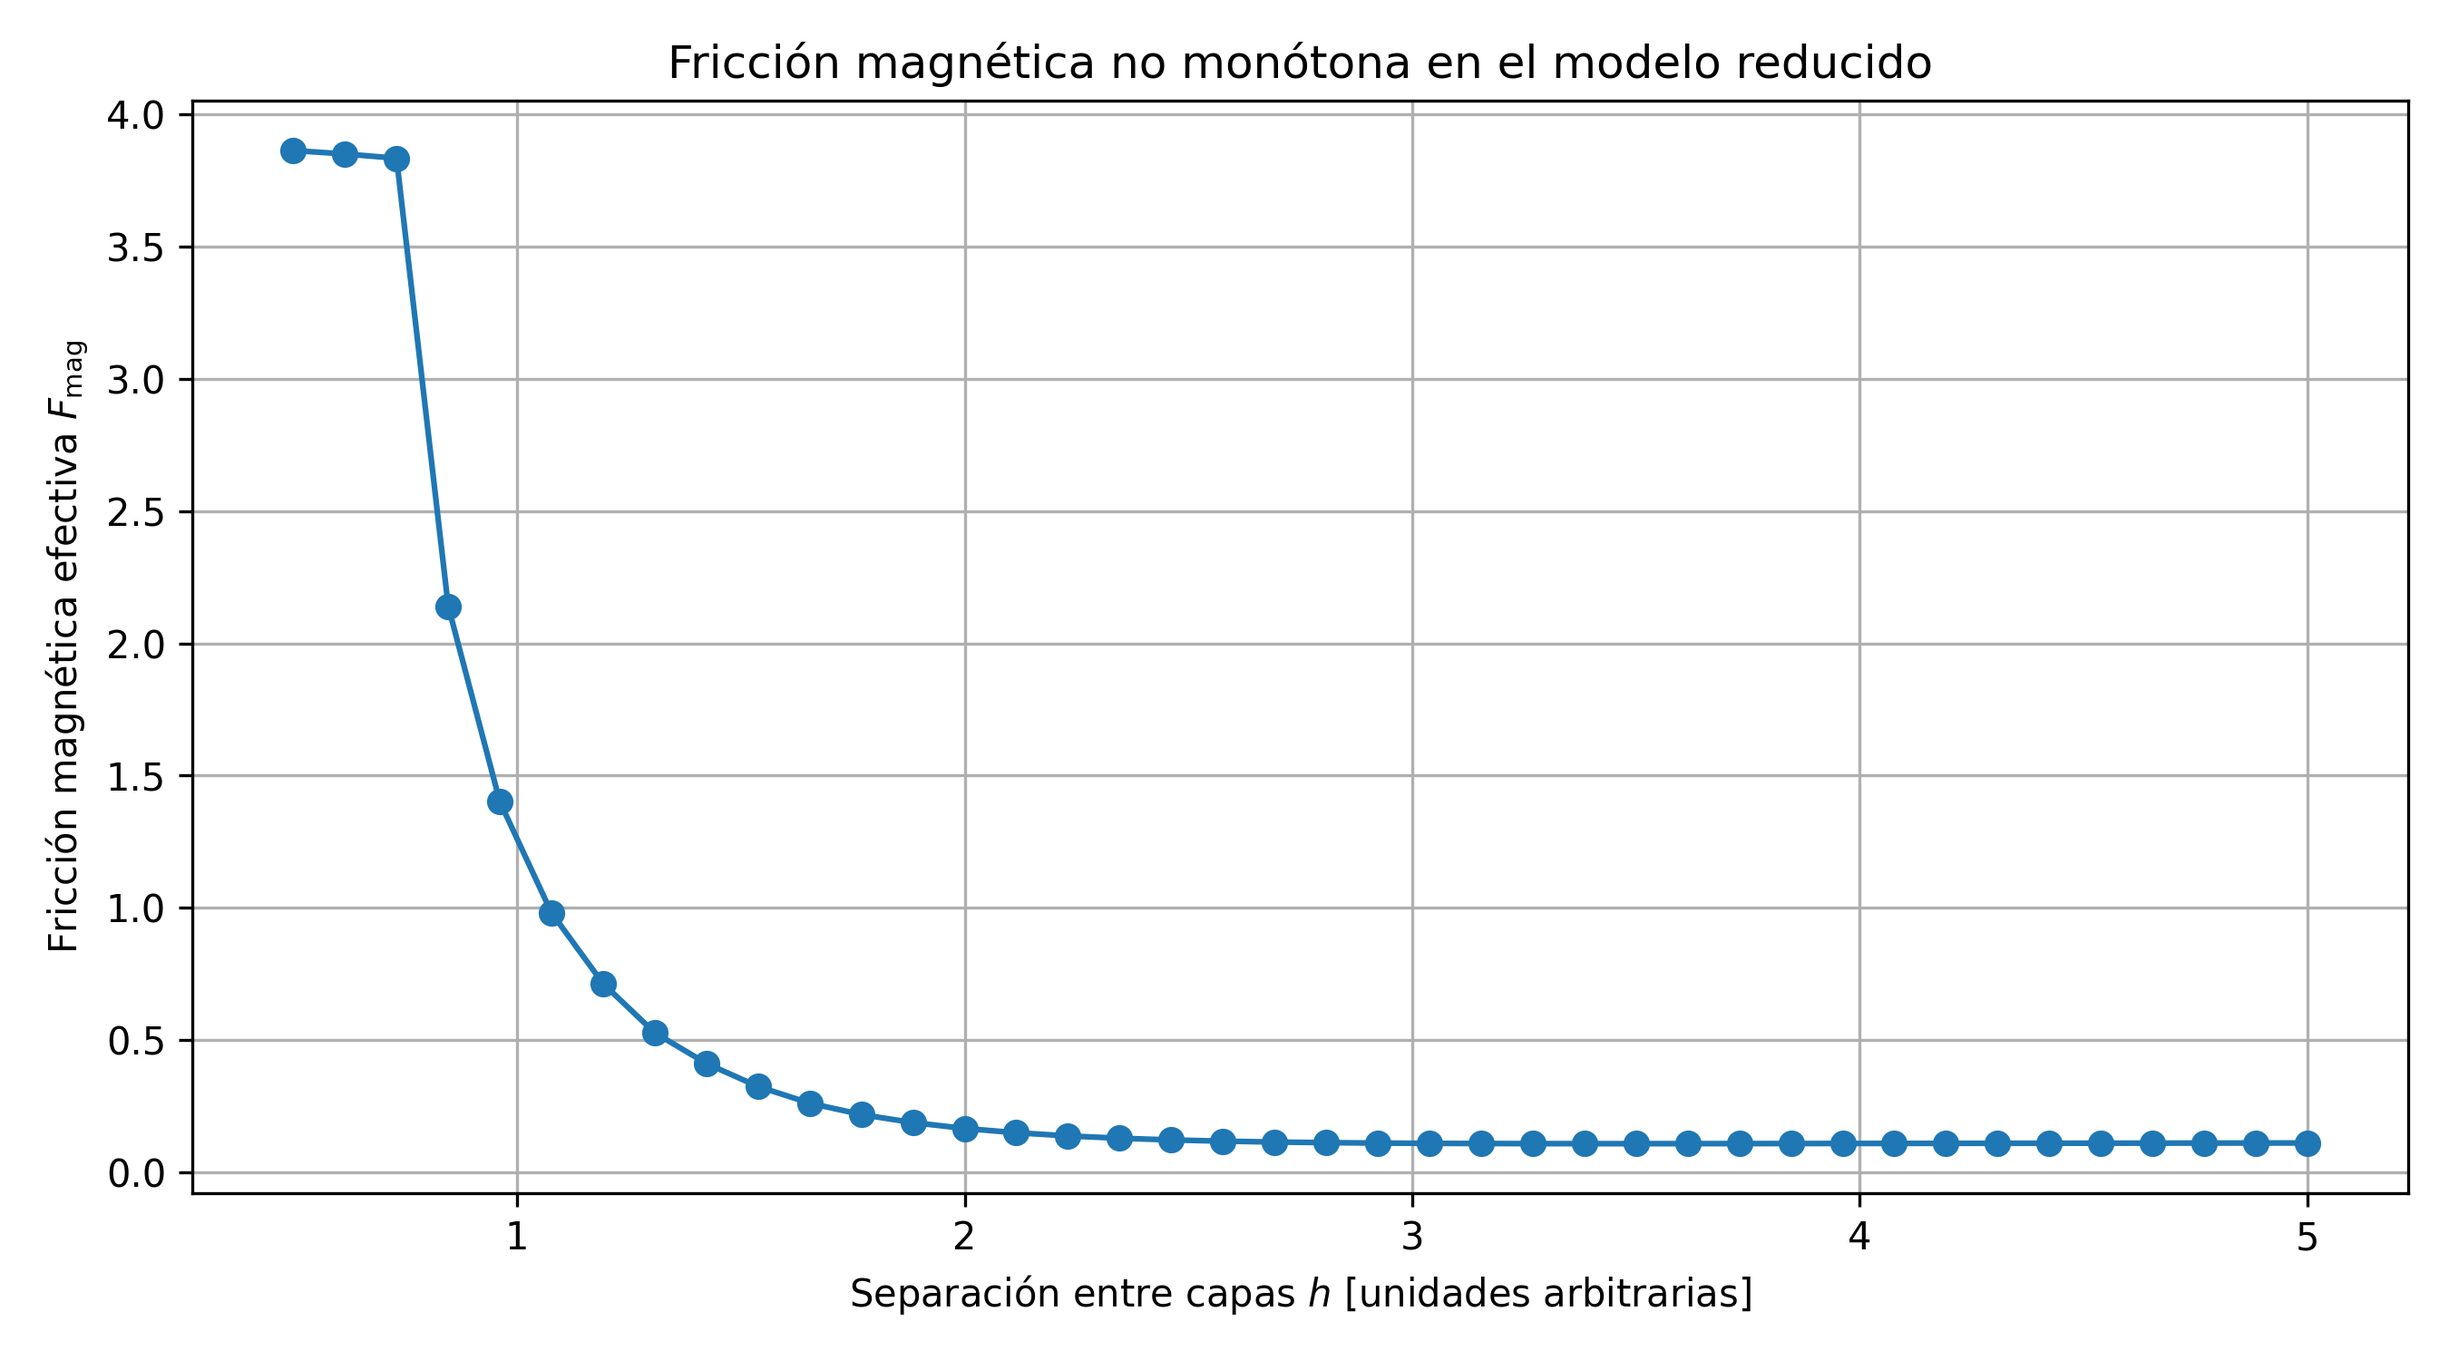
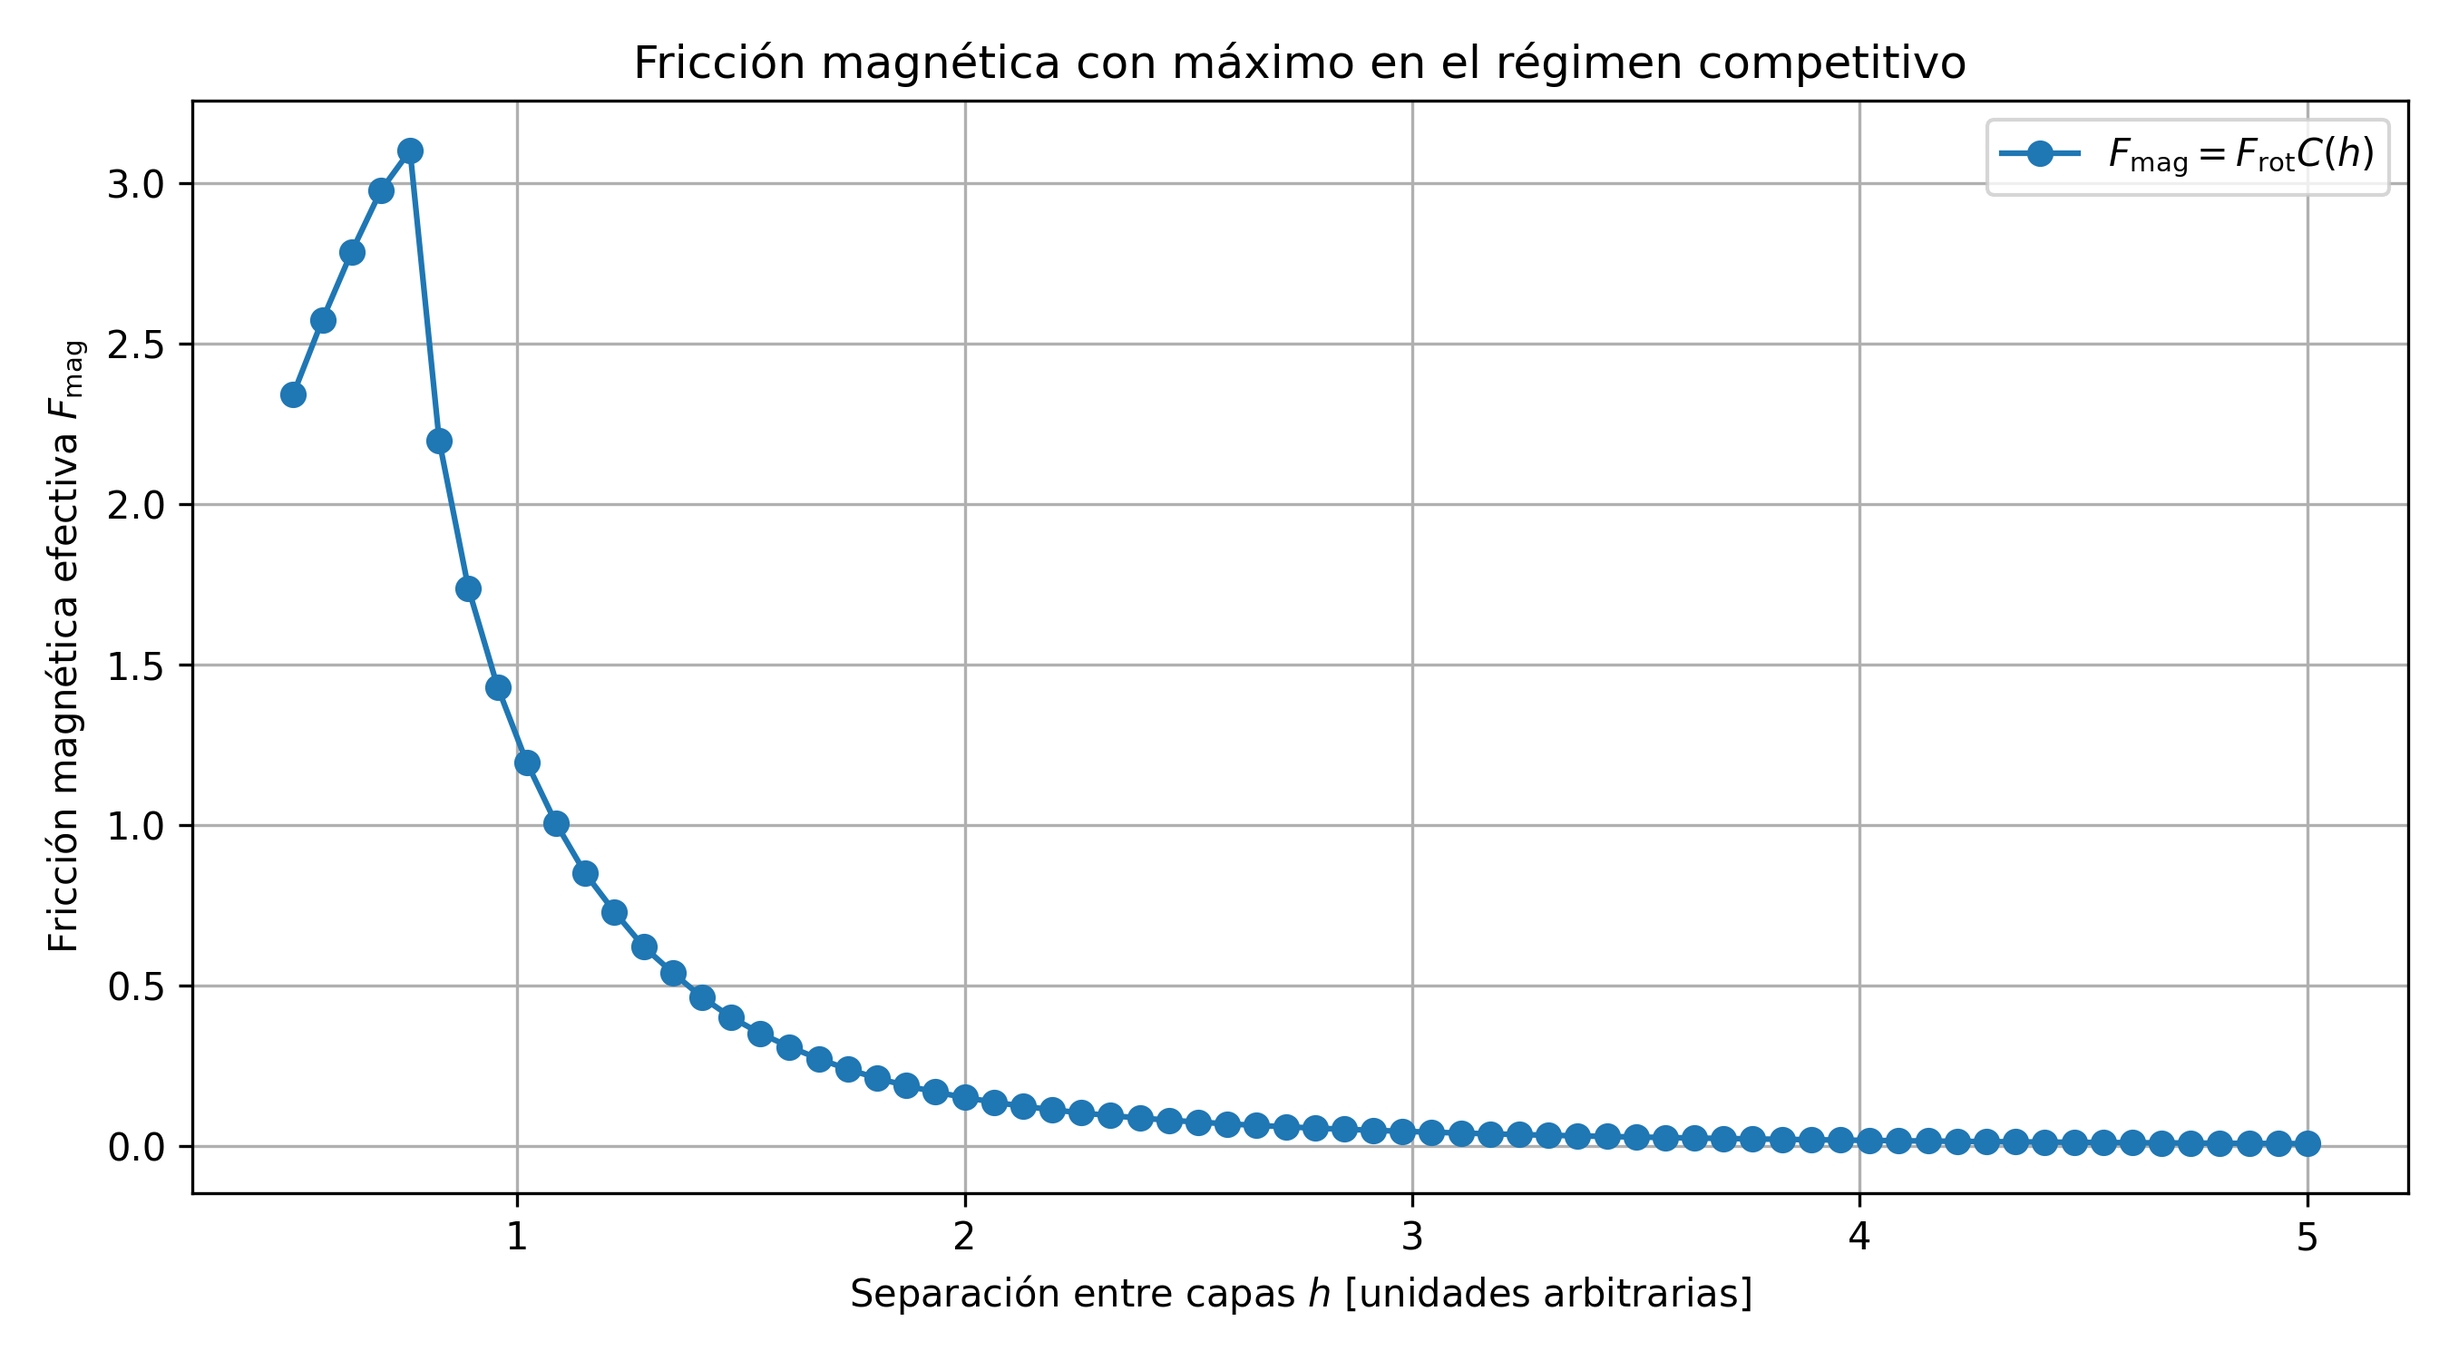
Correccion

diff --git a/modelo_friccion_magnetica.py b/modelo_friccion_magnetica.py
@@ -6,71 +6,120 @@ import matplotlib.pyplot as plt
 # Modelo reducido de fricción magnética sin contacto
 # Dos rotores / dos subredes: theta_A y theta_B
 # ============================================================
+#
+# Objetivo del código:
+# Construir un modelo mínimo que reproduzca cualitativamente la idea central
+# del artículo: la fricción magnética puede ser máxima cuando compiten
+# la interacción con el sustrato y la interacción interna entre rotores.
+#
+# Importante:
+# Este código NO pretende reproducir cuantitativamente el experimento completo
+# de 7x7 rotores. Es un modelo reducido útil para el paper del curso.
+# ============================================================
 
-# Parámetros generales
+
+# ============================================================
+# Parámetros generales de la simulación
+# ============================================================
+
 gamma = 1.0          # coeficiente de fricción rotacional
-v = 0.05             # velocidad de deslizamiento
+v = 0.05             # velocidad de deslizamiento en periodos de red / unidad de tiempo
 dt = 0.01            # paso temporal
-n_periods = 6        # número de periodos de red simulados
+n_periods = 8        # número de periodos de red simulados
 steps_per_period = int(1 / (v * dt))
 n_steps = n_periods * steps_per_period
 
-# Desplazamiento total
+# Tiempo y desplazamiento. La variable x está medida en periodos de red.
 t = np.arange(n_steps) * dt
-x = v * t            # x está medido en unidades del periodo de red
+x = v * t
 
-# Barrido de separaciones
-h_values = np.linspace(0.5, 5.0, 40)
+# Valores de separación h que se barren para obtener F_mag(h)
+h_values = np.linspace(0.5, 5.0, 70)
 
+# Pequeño número para evitar divisiones por cero
+eps = 1e-12
+
+
+# ============================================================
+# Funciones auxiliares
+# ============================================================
 
 def wrap_angle(theta):
     """
     Lleva un ángulo al intervalo [-pi, pi].
-    Esto ayuda a evitar saltos artificiales en las gráficas.
+    Esto ayuda a visualizar las orientaciones sin saltos de 2pi.
     """
     return (theta + np.pi) % (2 * np.pi) - np.pi
 
 
-def phi_substrate(x):
+def phi_substrate(x_value):
     """
     Dirección efectiva del campo magnético del sustrato.
-    Se toma periódica en el desplazamiento.
+    El campo se toma periódico con el desplazamiento.
     """
-    return 2 * np.pi * x
+    return 2 * np.pi * x_value
 
 
 def B_of_h(h):
     """
     Intensidad de la interacción con el sustrato.
-    Disminuye con la separación h.
+    Disminuye al aumentar la separación entre capas.
     """
     return np.exp(-h)
 
 
 def J_of_h(h):
     """
-    Intensidad de la interacción interna entre rotores.
-
-    En este modelo simple, la interacción entre rotores se toma
-    relativamente más importante cuando aumenta h.
+    Intensidad efectiva de la interacción interna entre rotores.
+    En este modelo reducido se hace crecer relativamente con h, para representar
+    que a grandes separaciones domina la interacción interna frente al sustrato.
     """
     return 0.35 * (1 - np.exp(-h))
 
 
-def simulate(h, theta_A0=0.2, theta_B0=-0.2):
+def competition_factor(B, J):
     """
-    Simula la dinámica de dos rotores magnéticos para una separación h.
+    Factor fenomenológico de competencia entre interacciones.
+
+    C = 1 cuando B = J.
+    C tiende a 0 cuando una interacción domina completamente sobre la otra.
+
+    Este factor permite resaltar que la disipación magnética relevante aparece
+    principalmente cuando el sustrato y la interacción interna son comparables.
+    """
+    return 4 * B * J / ((B + J) ** 2 + eps)
+
+
+# ============================================================
+# Simulación dinámica
+# ============================================================
+
+def simulate(h, theta_A0=0.0, theta_B0=0.05):
+    """
+    Simula la dinámica sobreamortiguada de dos rotores magnéticos.
+
+    Variables dinámicas:
+    theta_A(t), theta_B(t)
 
     Energía efectiva:
 
-    U = J(h) cos(theta_A - theta_B)
-        - B(h)[cos(theta_A - phi) + cos(theta_B - phi)]
+    U(theta_A, theta_B, x, h) =
+        J(h) cos(theta_A - theta_B)
+        - B(h)[cos(theta_A - phi(x)) + cos(theta_B - phi(x))]
 
-    Nota:
-    - El término J cos(theta_A - theta_B) favorece configuración antiparalela
-      cuando J > 0, porque su mínimo ocurre cerca de theta_A - theta_B = pi.
-    - El término con B favorece alineación de ambos rotores con el campo
-      periódico del sustrato.
+    Interpretación:
+    - El término con B(h) favorece que ambos rotores sigan el campo periódico
+      del sustrato.
+    - El término con J(h) favorece una configuración antiparalela entre rotores.
+    - Cuando B y J son comparables, hay competencia entre ambas tendencias.
+
+    Ecuaciones de movimiento sobreamortiguadas:
+
+        gamma * theta_dot = - dU/dtheta
+
+    La potencia disipada por fricción rotacional se calcula como:
+
+        P_diss = gamma * (theta_A_dot^2 + theta_B_dot^2)
     """
 
     B = B_of_h(h)
@@ -78,44 +127,45 @@ def simulate(h, theta_A0=0.2, theta_B0=-0.2):
 
     theta_A = np.zeros(n_steps)
     theta_B = np.zeros(n_steps)
+    dissipation_rate = np.zeros(n_steps)
 
     theta_A[0] = theta_A0
     theta_B[0] = theta_B0
 
-    dissipation_rate = np.zeros(n_steps)
-
     for k in range(n_steps - 1):
         phi = phi_substrate(x[k])
 
-        # Derivadas de U respecto a los ángulos
+        # Derivadas parciales de U respecto a theta_A y theta_B
         dU_dtheta_A = -J * np.sin(theta_A[k] - theta_B[k]) + B * np.sin(theta_A[k] - phi)
         dU_dtheta_B =  J * np.sin(theta_A[k] - theta_B[k]) + B * np.sin(theta_B[k] - phi)
 
-        # Dinámica sobreamortiguada:
-        # gamma * theta_dot = - dU/dtheta
+        # Dinámica sobreamortiguada
         theta_A_dot = -dU_dtheta_A / gamma
         theta_B_dot = -dU_dtheta_B / gamma
 
         theta_A[k + 1] = theta_A[k] + theta_A_dot * dt
         theta_B[k + 1] = theta_B[k] + theta_B_dot * dt
 
-        # Potencia disipada por fricción rotacional
+        # Potencia disipada por fricción rotacional interna
         dissipation_rate[k] = gamma * (theta_A_dot**2 + theta_B_dot**2)
 
-    # Último valor aproximado
     dissipation_rate[-1] = dissipation_rate[-2]
 
     # Parámetro de orden:
-    # Sigma = 1  -> orden ferromagnético, rotores paralelos
-    # Sigma = -1 -> orden antiferromagnético, rotores antiparalelos
+    # Sigma = +1  -> rotores paralelos, orden tipo ferromagnético.
+    # Sigma = -1  -> rotores antiparalelos, orden tipo antiferromagnético.
     Sigma = np.cos(theta_A - theta_B)
 
-    # Energía disipada total
+    # Energía disipada total y fricción rotacional promedio
     E_diss = np.trapz(dissipation_rate, t)
-
-    # Fricción efectiva: energía disipada por distancia recorrida
     total_distance = x[-1] - x[0]
-    F_mag = E_diss / total_distance
+    F_rot = E_diss / total_distance
+
+    # Factor de competencia y fricción magnética efectiva corregida.
+    # Esta es la magnitud que se usa para representar el mecanismo cualitativo
+    # de fricción máxima en el régimen competitivo.
+    C = competition_factor(B, J)
+    F_mag = F_rot * C
 
     return {
         "h": h,
@@ -125,19 +175,25 @@ def simulate(h, theta_A0=0.2, theta_B0=-0.2):
         "Sigma": Sigma,
         "dissipation_rate": dissipation_rate,
         "E_diss": E_diss,
+        "F_rot": F_rot,
         "F_mag": F_mag,
         "B": B,
-        "J": J
+        "J": J,
+        "C": C,
     }
 
 
 # ============================================================
-# Simulaciones para tres regímenes
+# Simulaciones representativas de tres regímenes
 # ============================================================
 
-h_small = 0.7       # domina el sustrato
-h_middle = 2.0      # régimen competitivo
-h_large = 4.5       # domina interacción interna
+# Estos valores se escogieron para representar tres zonas:
+# 1. Sustrato dominante: B >> J
+# 2. Régimen competitivo: B aproximadamente comparable con J
+# 3. Interacción interna dominante: J >> B
+h_small = 0.7
+h_middle = 1.35
+h_large = 4.5
 
 result_small = simulate(h_small)
 result_middle = simulate(h_middle)
@@ -145,14 +201,12 @@ result_large = simulate(h_large)
 
 
 # ============================================================
-# Figura 1: Ángulos vs desplazamiento
+# Figura 1: Ángulos vs desplazamiento en el régimen competitivo
 # ============================================================
 
 plt.figure(figsize=(9, 5))
-
 plt.plot(result_middle["x"], wrap_angle(result_middle["theta_A"]), label=r"$\theta_A$")
 plt.plot(result_middle["x"], wrap_angle(result_middle["theta_B"]), label=r"$\theta_B$")
-
 plt.xlabel(r"Desplazamiento $x$ [periodos de red]")
 plt.ylabel(r"Ángulo del rotor [rad]")
 plt.title(r"Dinámica angular de dos rotores en el régimen competitivo")
@@ -168,14 +222,12 @@ plt.show()
 # ============================================================
 
 plt.figure(figsize=(9, 5))
-
-plt.plot(result_small["x"], result_small["Sigma"], label=f"h = {h_small:.1f}  sustrato dominante")
-plt.plot(result_middle["x"], result_middle["Sigma"], label=f"h = {h_middle:.1f}  régimen competitivo")
-plt.plot(result_large["x"], result_large["Sigma"], label=f"h = {h_large:.1f}  interacción interna dominante")
-
+plt.plot(result_small["x"], result_small["Sigma"], label=f"h = {h_small:.2f}  sustrato dominante")
+plt.plot(result_middle["x"], result_middle["Sigma"], label=f"h = {h_middle:.2f}  régimen competitivo")
+plt.plot(result_large["x"], result_large["Sigma"], label=f"h = {h_large:.2f}  interacción interna dominante")
 plt.xlabel(r"Desplazamiento $x$ [periodos de red]")
 plt.ylabel(r"Parámetro de orden $\Sigma = \cos(\theta_A-\theta_B)$")
-plt.title(r"Transición entre orden ferromagnético y antiferromagnético")
+plt.title(r"Orden magnético efectivo en tres regímenes")
 plt.legend()
 plt.grid(True)
 plt.tight_layout()
@@ -184,33 +236,43 @@ plt.show()
 
 
 # ============================================================
-# Figura 3: Fricción magnética efectiva vs separación h
+# Barrido en h para calcular F_mag(h)
 # ============================================================
 
-F_values = []
+F_rot_values = []
+F_mag_values = []
 Sigma_mean_values = []
 B_values = []
 J_values = []
+C_values = []
 
 for h in h_values:
     result = simulate(h)
-    F_values.append(result["F_mag"])
+    F_rot_values.append(result["F_rot"])
+    F_mag_values.append(result["F_mag"])
     Sigma_mean_values.append(np.mean(result["Sigma"]))
     B_values.append(result["B"])
     J_values.append(result["J"])
+    C_values.append(result["C"])
 
-F_values = np.array(F_values)
+F_rot_values = np.array(F_rot_values)
+F_mag_values = np.array(F_mag_values)
 Sigma_mean_values = np.array(Sigma_mean_values)
 B_values = np.array(B_values)
 J_values = np.array(J_values)
+C_values = np.array(C_values)
+
+
+# ============================================================
+# Figura 3: Fricción magnética efectiva vs separación h
+# ============================================================
 
 plt.figure(figsize=(9, 5))
-
-plt.plot(h_values, F_values, marker="o")
-
+plt.plot(h_values, F_mag_values, marker="o", label=r"$F_{\mathrm{mag}} = F_{\mathrm{rot}} C(h)$")
 plt.xlabel(r"Separación entre capas $h$ [unidades arbitrarias]")
 plt.ylabel(r"Fricción magnética efectiva $F_{\mathrm{mag}}$")
-plt.title(r"Fricción magnética no monótona en el modelo reducido")
+plt.title(r"Fricción magnética con máximo en el régimen competitivo")
+plt.legend()
 plt.grid(True)
 plt.tight_layout()
 plt.savefig("figura_3_friccion_vs_h.png", dpi=300)
@@ -218,16 +280,15 @@ plt.show()
 
 
 # ============================================================
-# Figura 4 opcional: Comparación entre interacciones B(h) y J(h)
+# Figura 4: Competencia entre interacciones B(h), J(h) y C(h)
 # ============================================================
 
 plt.figure(figsize=(9, 5))
-
 plt.plot(h_values, B_values, label=r"$B(h)$ interacción con el sustrato")
 plt.plot(h_values, J_values, label=r"$J(h)$ interacción interna")
-
+plt.plot(h_values, C_values, linestyle="--", label=r"$C(h)$ factor de competencia")
 plt.xlabel(r"Separación $h$")
-plt.ylabel("Intensidad de interacción")
+plt.ylabel("Intensidad relativa")
 plt.title("Competencia entre interacción con el sustrato e interacción interna")
 plt.legend()
 plt.grid(True)
@@ -237,20 +298,44 @@ plt.show()
 
 
 # ============================================================
+# Figura 5: Comparación entre disipación rotacional cruda y fricción efectiva
+# ============================================================
+
+plt.figure(figsize=(9, 5))
+plt.plot(h_values, F_rot_values, marker="o", label=r"$F_{\mathrm{rot}}$ disipación rotacional cruda")
+plt.plot(h_values, F_mag_values, marker="s", label=r"$F_{\mathrm{mag}}$ fricción efectiva con competencia")
+plt.xlabel(r"Separación $h$")
+plt.ylabel("Magnitud efectiva")
+plt.title("Efecto del factor de competencia sobre la fricción magnética")
+plt.legend()
+plt.grid(True)
+plt.tight_layout()
+plt.savefig("figura_5_comparacion_fricciones.png", dpi=300)
+plt.show()
+
+
+# ============================================================
 # Resumen numérico
 # ============================================================
 
-h_peak = h_values[np.argmax(F_values)]
-F_peak = np.max(F_values)
+h_peak = h_values[np.argmax(F_mag_values)]
+F_peak = np.max(F_mag_values)
+B_peak = B_of_h(h_peak)
+J_peak = J_of_h(h_peak)
+C_peak = competition_factor(B_peak, J_peak)
 
 print("=========================================")
 print("Resumen del modelo reducido")
 print("=========================================")
-print(f"Separación con máxima fricción: h = {h_peak:.3f}")
-print(f"Fricción máxima efectiva: F_mag = {F_peak:.5f}")
+print(f"Separación con máxima fricción efectiva: h = {h_peak:.3f}")
+print(f"Fricción magnética efectiva máxima: F_mag = {F_peak:.5f}")
+print(f"B(h_peak) = {B_peak:.5f}")
+print(f"J(h_peak) = {J_peak:.5f}")
+print(f"C(h_peak) = {C_peak:.5f}")
 print()
 print("Archivos generados:")
 print("- figura_1_angulos_vs_desplazamiento.png")
 print("- figura_2_parametro_de_orden.png")
 print("- figura_3_friccion_vs_h.png")
 print("- figura_4_competencia_interacciones.png")
+print("- figura_5_comparacion_fricciones.png")
